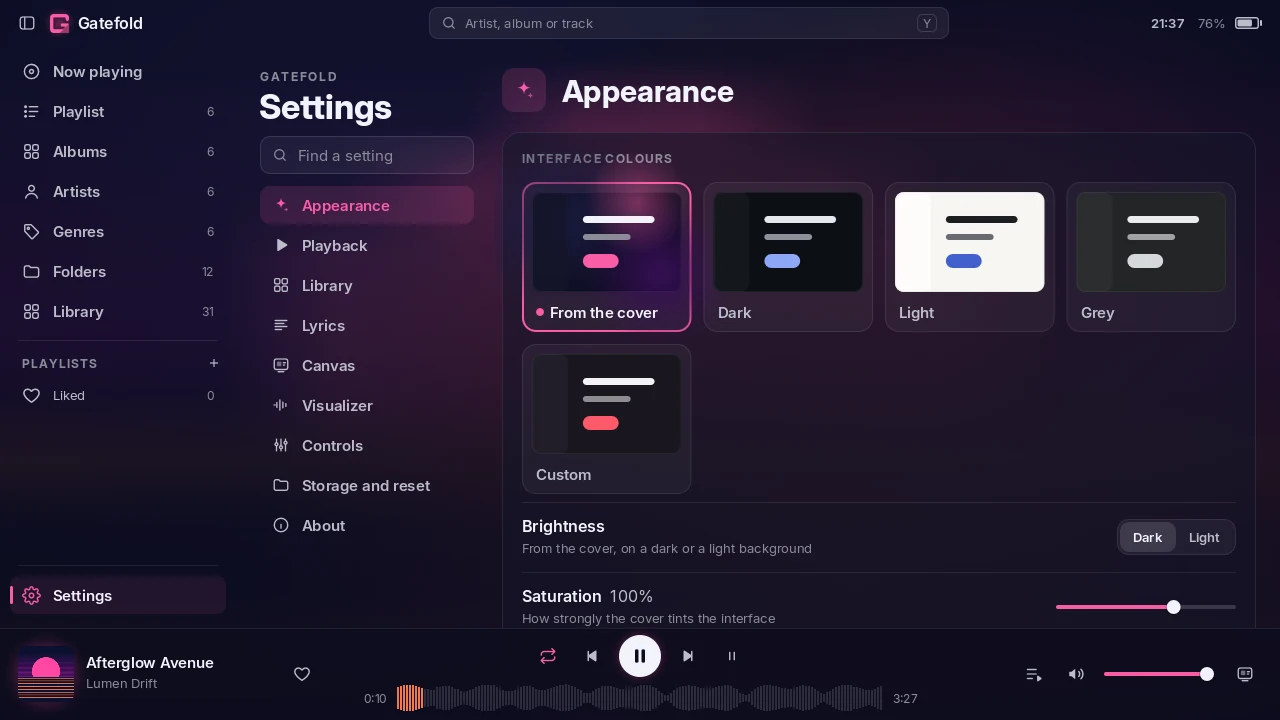
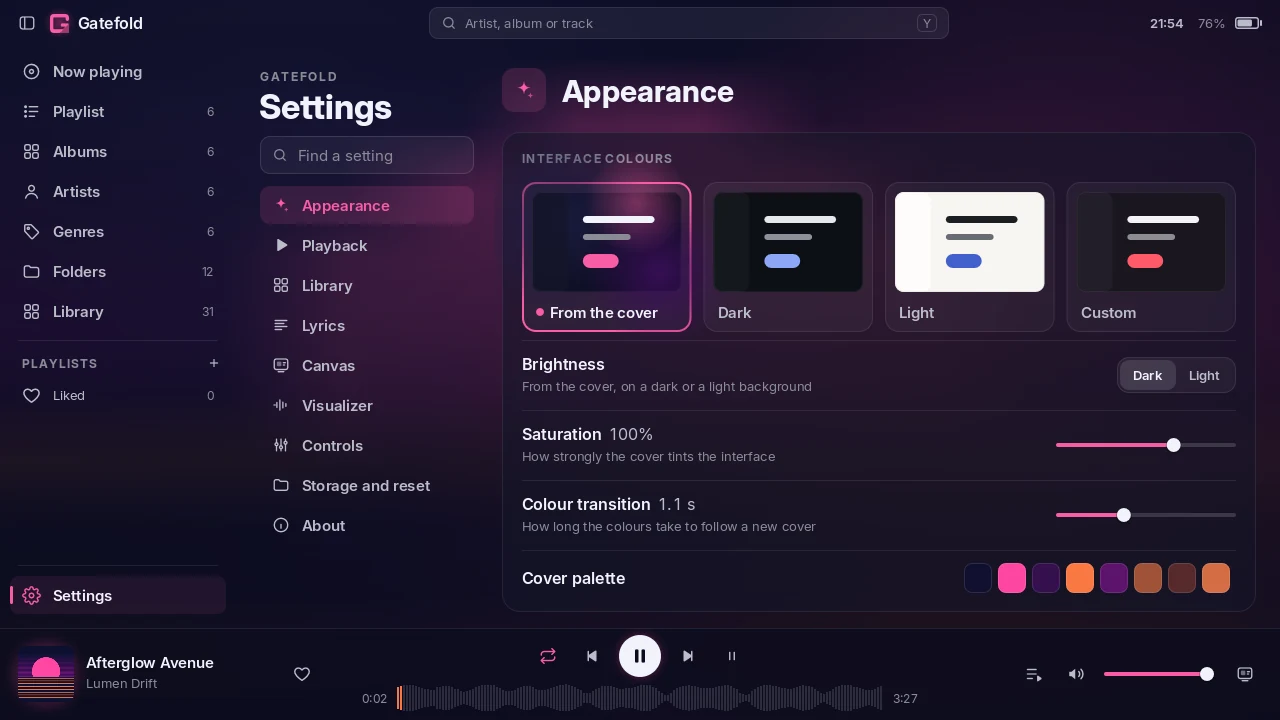
Polish: tidy the Library index, drop Grey and the tile shadows
- Library → Tracks: the letter index sorts names the way it files them
  (# first, then A–Z, ignoring leading brackets and quotes), so it reads
  in order with each letter once; the filter searches only the field
  the list is sorted by, and its placeholder says which.
- Covers sit on the background without a shadow everywhere, as on Now
  playing: album, artist, folder and track tiles.
- The Grey theme is no longer offered (a saved Grey reads as Dark), so
  the theme cards fit one row.
- The progress card says "Overlay covers", which fits.
- README and the Settings and Artists screenshots follow.

diff --git a/source/view_settings.cpp b/source/view_settings.cpp
@@ -146,18 +146,18 @@ void App::drawSettings(float x, float y, float w, float h) {
                                    } });
     }
     {
-        // Interface colours: Gatefold's five cards, four a row (From the cover, Dark, Light, Grey; Custom)
+        // Interface colours: Gatefold's cards in one row (From the cover, Dark, Light, Custom). Grey is left out at the
+        // user's request, to keep the page shorter; a saved Grey reads as Dark (Store::load).
         Row themes;
-        themes.blockH = 150 * 2 + 12;
+        themes.blockH = 150;
         themes.block = [this](float bx, float by, float bw) {
             struct Opt { const char* name; int id; Palette p; };
             const Palette custom = store.theme == 4 ? target : customPalette();
-            const Opt opts[5] = { { "From the cover", 0, coverPal }, { "Dark", 1, paletteFixed(FixedTheme::Dark) },
-                                  { "Light", 3, paletteFixed(FixedTheme::Light) }, { "Grey", 2, paletteFixed(FixedTheme::Gray) },
-                                  { "Custom", 4, custom } };
+            const Opt opts[4] = { { "From the cover", 0, coverPal }, { "Dark", 1, paletteFixed(FixedTheme::Dark) },
+                                  { "Light", 3, paletteFixed(FixedTheme::Light) }, { "Custom", 4, custom } };
             const float gap = 12, cw = (bw - gap * 3) / 4, ch = 150;
-            for (int i = 0; i < 5; i++) {
-                const float cx = bx + (i % 4) * (cw + gap), cy = by + (i / 4) * (ch + gap);
+            for (int i = 0; i < 4; i++) {
+                const float cx = bx + i * (cw + gap), cy = by;
                 const Id id = uid("set.theme", opts[i].id);
                 if (ui.item(id, { cx, cy, cw, ch }, 14)) { store.theme = opts[i].id; applyTheme(); persistSoon(0.3f); }
                 const bool on = store.theme == opts[i].id, hot = ui.pressed(id) || (ui.focused(id) && ui.showFocusRing());
@@ -187,7 +187,7 @@ void App::drawSettings(float x, float y, float w, float h) {
         static const std::vector<std::string> brightNames = { "Dark", "Light" };
         const Row brightness = segRow("Brightness",
                                       store.theme == 0 ? "From the cover, on a dark or a light background"
-                                                       : "For From the cover; Dark, Light and Grey keep their own",
+                                                       : "For From the cover; Dark and Light keep their own",
                                       "set.bright", brightNames, store.brightness, [this](int i) { store.brightness = i; applyTheme(); });
         const Row saturation = sliderRow("Saturation", std::to_string(int(std::lround(store.saturation * 100))) + "%", "How strongly the cover tints the interface",
                                          "set.sat", satShown, [this] { store.saturation = std::round(satShown * 1.5f * 100) / 100; applyTheme(); });

diff --git a/source/store.cpp b/source/store.cpp
@@ -143,7 +143,7 @@ void Store::load() {
         else if (k == "tracksSort") tracksSort = std::clamp(atoi(v.c_str()), 0, 5);
         else if (k == "tracksDesc") tracksDesc = v == "1";
         else if (k == "hiddenTabs") hiddenTabs = unsigned(atoi(v.c_str())) & 63u;
-        else if (k == "theme") theme = std::clamp(atoi(v.c_str()), 0, 4);
+        else if (k == "theme") { theme = std::clamp(atoi(v.c_str()), 0, 4); if (theme == 2) theme = 1; }   // Grey is no longer offered: Dark
         else if (k == "brightness") brightness = std::clamp(atoi(v.c_str()), 0, 1);
         else if (k == "saturation") saturation = std::clamp(float(atof(v.c_str())), 0.f, 1.5f);
         else if (k == "colourTransition") colourTransition = std::clamp(float(atof(v.c_str())), 0.f, 3.f);

diff --git a/source/store.hpp b/source/store.hpp
@@ -47,7 +47,7 @@ struct Store {
     int libTab = 1;            // 0 Albums, 1 Tracks, 2 Folders
     int tracksSort = 0;        // by artist, title, album, year, genre, length
     bool tracksDesc = false;
-    int theme = 0;                  // 0 from the cover, 1 Dark, 2 Grey, 3 Light (theme.js FIXED), 4 Custom
+    int theme = 0;                  // 0 from the cover, 1 Dark, 3 Light (theme.js FIXED), 4 Custom; 2 was Grey, read as Dark
     int brightness = 0;             // From the cover: 0 dark, 1 light (palette-core.js opts.mode)
     float saturation = 1;           // opts.intensity, 0..1.5
     float colourTransition = 1.1f;  // seconds the colours take to follow a new cover (Gatefold's --tx)

diff --git a/source/view_grid.cpp b/source/view_grid.cpp
@@ -34,7 +34,7 @@ bool App::tile(Id id, int coverTrack, float x, float y, float w, bool round, con
     const bool hot = ui.pressed(id) || (ui.focused(id) && ui.showFocusRing());
     if (hot) g.roundRect(x, y, w, h, 14, pal.text, ui.pressed(id) ? 0.11f : 0.065f);
     const float rad = round ? cover / 2 : 10;
-    g.roundRect(x + 12, y + 18, cover - 4, cover - 6, rad, { 0, 0, 0 }, 0.28f);   // 0 10px 24px -14px rgb(0 0 0 / .6)
+    // Gatefold's shadow under the cover (0 10px 24px -14px) is left out at the user's request, as on Now playing
     coverBox(coverTrack, x + 10, y + 10, cover, rad);
     g.roundStroke(x + 10, y + 10, cover, cover, rad, 1, pal.text, 0.09f);
     if (hot && !round) {

diff --git a/source/view_library.cpp b/source/view_library.cpp
@@ -204,7 +204,6 @@ bool App::folderTile(Id id, int folder, float x, float y, float w, float cover) 
     const bool hot = ui.pressed(id) || (ui.focused(id) && ui.showFocusRing());
     if (hot) g.roundRect(x, y, w, h, 14, pal.text, ui.pressed(id) ? 0.11f : 0.065f);
     const float cx = x + 8, cy = y + 8;
-    g.roundRect(cx + 2, cy + 10, cover - 4, cover - 6, 12, { 0, 0, 0 }, 0.3f);
     std::vector<int> inside;
     for (int i = fo.first; i < fo.last && i < fo.first + 400; i++) inside.push_back(i);
     if (inside.empty()) {

diff --git a/source/view_tracks.cpp b/source/view_tracks.cpp
@@ -210,7 +210,6 @@ bool App::trackTile(Id id, int track, float x, float y, float w, float cover) {
     const bool playing = now.track == track && player.loaded();
     if (hot) g.roundRect(x, y, w, h, 14, pal.text, ui.pressed(id) ? 0.11f : 0.065f);
     const float cx = x + 8, cy = y + 8;
-    g.roundRect(cx + 2, cy + 10, cover - 4, cover - 6, 12, { 0, 0, 0 }, 0.3f);   // 0 14px 28px -18px
     coverBox(track, cx, cy, cover, 12);
     if (playing) {
         g.roundRect(cx, cy, cover, cover, 12, { 0, 0, 0 }, 0.38f);

diff --git a/source/app.cpp b/source/app.cpp
@@ -1100,7 +1100,7 @@ Palette App::customPalette() const {
     return paletteCustom(c);
 }
 
-/** Settings → Appearance: From the cover (dark or light, any saturation), Dark, Grey, Light, or Custom. */
+/** Settings → Appearance: From the cover (dark or light, any saturation), Dark, Light, or Custom. */
 void App::applyTheme() {
     const PaletteOpts o = paletteOpts();
     paletteSetDefaults(o);   // the album pages' palettes, made on the metadata thread

diff --git a/source/shell.cpp b/source/shell.cpp
@@ -492,7 +492,7 @@ bool App::backgroundJob(Job& j) {
     if (thumbs.running()) {
         int made = 0, left = 0;
         thumbs.progress(made, left);
-        if (left > 0) { j = { "Covers for the overlay", made, made + left, 1 }; return true; }
+        if (left > 0) { j = { "Overlay covers", made, made + left, 1 }; return true; }
     }
     return false;
 }

diff --git a/README.md b/README.md
@@ -13,7 +13,7 @@ By <b>AndryTheBeast</b> &amp; <b>DEVIROYrus</b> · version 1.0.0<br>
 
 ## ✨ Highlights
 
-- 🎨 **Colours from the cover.** The whole interface takes its palette from the album playing, with Gatefold's own algorithm (`palette-core.js`, ported line for line and verified to give identical colours on Gatefold's test covers). Or pick a fixed Dark, Light or Grey theme, or your own.
+- 🎨 **Colours from the cover.** The whole interface takes its palette from the album playing, with Gatefold's own algorithm (`palette-core.js`, ported line for line and verified to give identical colours on Gatefold's test covers). Or pick a fixed Dark or Light theme, or your own.
 - 🎤 **Synced lyrics.** From `.lrc` files or the lyrics tag, in Now playing and in the full-screen Canvas. They follow the music, scroll by hand, and an instrumental break shows Gatefold's three pulsing dots.
 - 🖼 **Canvas.** A full-screen Now playing with Cover, Lyrics and Minimal layouts. When nothing is touched, the controls fade away and the progress line grows into a spectrum.
 - 🎧 **Background player.** An optional sysmodule keeps the music going on the HOME menu, during games and after Gatefold closes, with no gap. An Ultrahand overlay controls it from anywhere.
@@ -67,7 +67,7 @@ By <b>AndryTheBeast</b> &amp; <b>DEVIROYrus</b> · version 1.0.0<br>
 
 ## 🎨 Appearance
 
-- 🌈 Themes: **From the cover** (on a dark or a light background), **Dark**, **Light**, **Grey**, or **Custom** (your background and two accents).
+- 🌈 Themes: **From the cover** (on a dark or a light background), **Dark**, **Light**, or **Custom** (your background and two accents).
 - 🎛 Saturation, colour transition time, and the cover's palette.
 - 🧱 A collapsible sidebar, and every tab but Now playing can be hidden.
 - 📈 Visualizer settings: sensitivity, smoothing, number of bars (for Now playing and the Canvas separately), peak caps and the cover's bass pulse.
